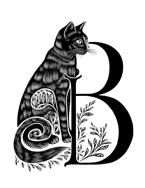
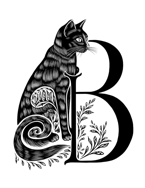
Adjustments to dropcats (B light)

diff --git a/js/head-GENERATED.js b/js/head-GENERATED.js
@@ -3666,20 +3666,20 @@ GW.assetVersions = {
 	"/static/font/drop-cap/dropcat/dark/T-3-small-2x.png": "1698178648",
 	"/static/font/drop-cap/dropcat/dark/T-4-small-1x.png": "1698178918",
 	"/static/font/drop-cap/dropcat/dark/T-4-small-2x.png": "1698178918",
-	"/static/font/drop-cap/dropcat/light/B-1-small-1x.png": "1698101518",
-	"/static/font/drop-cap/dropcat/light/B-1-small-2x.png": "1698101518",
-	"/static/font/drop-cap/dropcat/light/B-2-small-1x.png": "1698101518",
-	"/static/font/drop-cap/dropcat/light/B-2-small-2x.png": "1698101518",
-	"/static/font/drop-cap/dropcat/light/B-3-small-1x.png": "1698101518",
-	"/static/font/drop-cap/dropcat/light/B-3-small-2x.png": "1698101519",
-	"/static/font/drop-cap/dropcat/light/B-4-small-1x.png": "1698101519",
-	"/static/font/drop-cap/dropcat/light/B-4-small-2x.png": "1698101519",
-	"/static/font/drop-cap/dropcat/light/B-5-small-1x.png": "1698101519",
-	"/static/font/drop-cap/dropcat/light/B-5-small-2x.png": "1698101519",
-	"/static/font/drop-cap/dropcat/light/B-6-small-1x.png": "1698101519",
-	"/static/font/drop-cap/dropcat/light/B-6-small-2x.png": "1698101519",
-	"/static/font/drop-cap/dropcat/light/B-7-small-1x.png": "1698101519",
-	"/static/font/drop-cap/dropcat/light/B-7-small-2x.png": "1698101519",
+	"/static/font/drop-cap/dropcat/light/B-1-small-1x.png": "1698270093",
+	"/static/font/drop-cap/dropcat/light/B-1-small-2x.png": "1698270093",
+	"/static/font/drop-cap/dropcat/light/B-2-small-1x.png": "1698270093",
+	"/static/font/drop-cap/dropcat/light/B-2-small-2x.png": "1698270093",
+	"/static/font/drop-cap/dropcat/light/B-3-small-1x.png": "1698270093",
+	"/static/font/drop-cap/dropcat/light/B-3-small-2x.png": "1698270093",
+	"/static/font/drop-cap/dropcat/light/B-4-small-1x.png": "1698270093",
+	"/static/font/drop-cap/dropcat/light/B-4-small-2x.png": "1698270093",
+	"/static/font/drop-cap/dropcat/light/B-5-small-1x.png": "1698270093",
+	"/static/font/drop-cap/dropcat/light/B-5-small-2x.png": "1698270093",
+	"/static/font/drop-cap/dropcat/light/B-6-small-1x.png": "1698270093",
+	"/static/font/drop-cap/dropcat/light/B-6-small-2x.png": "1698270093",
+	"/static/font/drop-cap/dropcat/light/B-7-small-1x.png": "1698270093",
+	"/static/font/drop-cap/dropcat/light/B-7-small-2x.png": "1698270093",
 	"/static/font/drop-cap/dropcat/light/C-1-small-1x.png": "1697741351",
 	"/static/font/drop-cap/dropcat/light/C-1-small-2x.png": "1697741351",
 	"/static/font/drop-cap/dropcat/light/C-2-small-1x.png": "1697741351",

diff --git a/js/asset-versions-GENERATED.js b/js/asset-versions-GENERATED.js
@@ -100,20 +100,20 @@ GW.assetVersions = {
 	"/static/font/drop-cap/dropcat/dark/T-3-small-2x.png": "1698178648",
 	"/static/font/drop-cap/dropcat/dark/T-4-small-1x.png": "1698178918",
 	"/static/font/drop-cap/dropcat/dark/T-4-small-2x.png": "1698178918",
-	"/static/font/drop-cap/dropcat/light/B-1-small-1x.png": "1698101518",
-	"/static/font/drop-cap/dropcat/light/B-1-small-2x.png": "1698101518",
-	"/static/font/drop-cap/dropcat/light/B-2-small-1x.png": "1698101518",
-	"/static/font/drop-cap/dropcat/light/B-2-small-2x.png": "1698101518",
-	"/static/font/drop-cap/dropcat/light/B-3-small-1x.png": "1698101518",
-	"/static/font/drop-cap/dropcat/light/B-3-small-2x.png": "1698101519",
-	"/static/font/drop-cap/dropcat/light/B-4-small-1x.png": "1698101519",
-	"/static/font/drop-cap/dropcat/light/B-4-small-2x.png": "1698101519",
-	"/static/font/drop-cap/dropcat/light/B-5-small-1x.png": "1698101519",
-	"/static/font/drop-cap/dropcat/light/B-5-small-2x.png": "1698101519",
-	"/static/font/drop-cap/dropcat/light/B-6-small-1x.png": "1698101519",
-	"/static/font/drop-cap/dropcat/light/B-6-small-2x.png": "1698101519",
-	"/static/font/drop-cap/dropcat/light/B-7-small-1x.png": "1698101519",
-	"/static/font/drop-cap/dropcat/light/B-7-small-2x.png": "1698101519",
+	"/static/font/drop-cap/dropcat/light/B-1-small-1x.png": "1698270093",
+	"/static/font/drop-cap/dropcat/light/B-1-small-2x.png": "1698270093",
+	"/static/font/drop-cap/dropcat/light/B-2-small-1x.png": "1698270093",
+	"/static/font/drop-cap/dropcat/light/B-2-small-2x.png": "1698270093",
+	"/static/font/drop-cap/dropcat/light/B-3-small-1x.png": "1698270093",
+	"/static/font/drop-cap/dropcat/light/B-3-small-2x.png": "1698270093",
+	"/static/font/drop-cap/dropcat/light/B-4-small-1x.png": "1698270093",
+	"/static/font/drop-cap/dropcat/light/B-4-small-2x.png": "1698270093",
+	"/static/font/drop-cap/dropcat/light/B-5-small-1x.png": "1698270093",
+	"/static/font/drop-cap/dropcat/light/B-5-small-2x.png": "1698270093",
+	"/static/font/drop-cap/dropcat/light/B-6-small-1x.png": "1698270093",
+	"/static/font/drop-cap/dropcat/light/B-6-small-2x.png": "1698270093",
+	"/static/font/drop-cap/dropcat/light/B-7-small-1x.png": "1698270093",
+	"/static/font/drop-cap/dropcat/light/B-7-small-2x.png": "1698270093",
 	"/static/font/drop-cap/dropcat/light/C-1-small-1x.png": "1697741351",
 	"/static/font/drop-cap/dropcat/light/C-1-small-2x.png": "1697741351",
 	"/static/font/drop-cap/dropcat/light/C-2-small-1x.png": "1697741351",

diff --git a/include/inlined-head.html b/include/inlined-head.html
@@ -912,5 +912,5 @@ a[data-link-icon-type*='svg'] .link-icon-hook::after {
 }
 </style>
 <link rel="stylesheet" href="/static/css/head.css?v=1698263740">
-<script src="/static/js/head.js?v=1698263739"></script>
+<script src="/static/js/head.js?v=1698270177"></script>
 <link rel="preload" href="/static/img/icon/icons.svg?v=1698021605" as="image">
